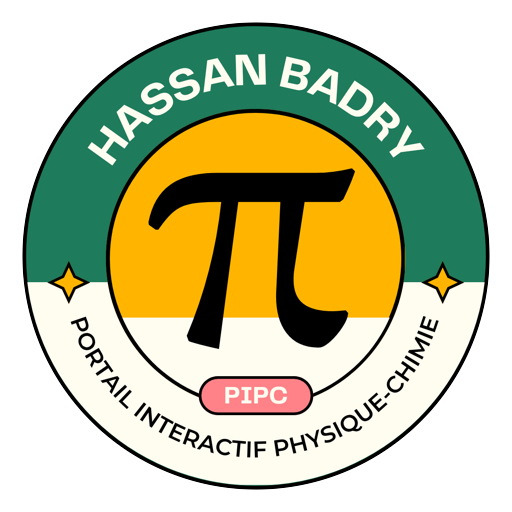
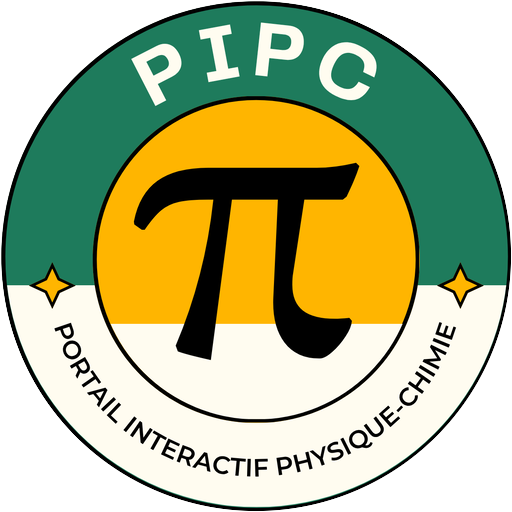
feat: the emblem drops his name and keeps the portal's
A new badge: PIPC arched above, "Portail Interactif Physique-Chimie"
below, the pi on amber unchanged.

The file arrived 1181x1181 RGB on an opaque cream ground, where the badge
it replaces is 512x512 RGBA. Dropped in as-is it would have shown cream
corners on every dark surface the mark sits on, so it is resized and
masked with an antialiased circle biting just inside the ring: corners at
alpha 0, centre opaque, and the boundary pixels the ring's own black
rather than a cream fringe.

The favicon set is deliberately left alone. It is a separate simplified
pi tile, not this badge — arched lettering turns to mud at 16-32px, and
config.ts documents that split as intentional.

M. Hassan Badry's name is no longer in the upper ring, so the docstring
that described the emblem as "ringed by his name and the portal's" is now
false and is corrected. AuthorCredit in the footer and on the landing is
the only place that credit is now made.

Claude-Session: https://claude.ai/code/session_01VQcRAEKsk93qzb6mGruQ7a

Changed region(s): [[0.0, 0.0, 1.0, 1.0]]

diff --git a/src/config.ts b/src/config.ts
@@ -30,9 +30,14 @@ export const AUTHOR_ROLE = "Professeur de Physique-Chimie";
 export const AUTHOR_PHOTO = "/hassan-badry.jpg";
 
 /**
- * The full emblem: π on amber, ringed by his name and the portal's. Used for the landing
- * and the app bar. Its arched lettering does not survive 42px, so in the header it reads as
- * a mark rather than as words — the "PIPC" wordmark beside it carries the name.
+ * The full emblem: π on amber, ringed by "PIPC" above and the portal's name below. Used
+ * for the landing and the app bar. Its arched lettering does not survive 42px, so in the
+ * header it reads as a mark rather than as words — the "PIPC" wordmark beside it carries
+ * the name.
+ *
+ * The emblem no longer carries M. Hassan Badry's name in its upper ring; the app credits
+ * him in the footer and on the landing instead (see AuthorCredit), which is the only place
+ * that credit is now made.
  *
  * The favicon and the pre-bundle splash are untouched: both are static (public/favicon.*
  * and the inline SVG in index.html) and still draw the π tile.

diff --git a/src/components/LandingIntro.test.ts b/src/components/LandingIntro.test.ts
@@ -139,8 +139,8 @@ describe("LandingIntro", () => {
   });
 
   it("shows the full emblem, and hides it from assistive tech", async () => {
-    // Every word inside the badge — PIPC, the portal's name, his name — is real text
-    // elsewhere on this screen, so announcing the image too would say it all three times.
+    // Every word inside the badge — PIPC and the portal's name — is real text elsewhere on
+    // this screen, so announcing the image too would say it all twice.
     const w = await mountLanding();
     const badge = w.get('[data-test="landing-badge"]');
     expect(badge.attributes("src")).toBe("/pipc-badge.png");
